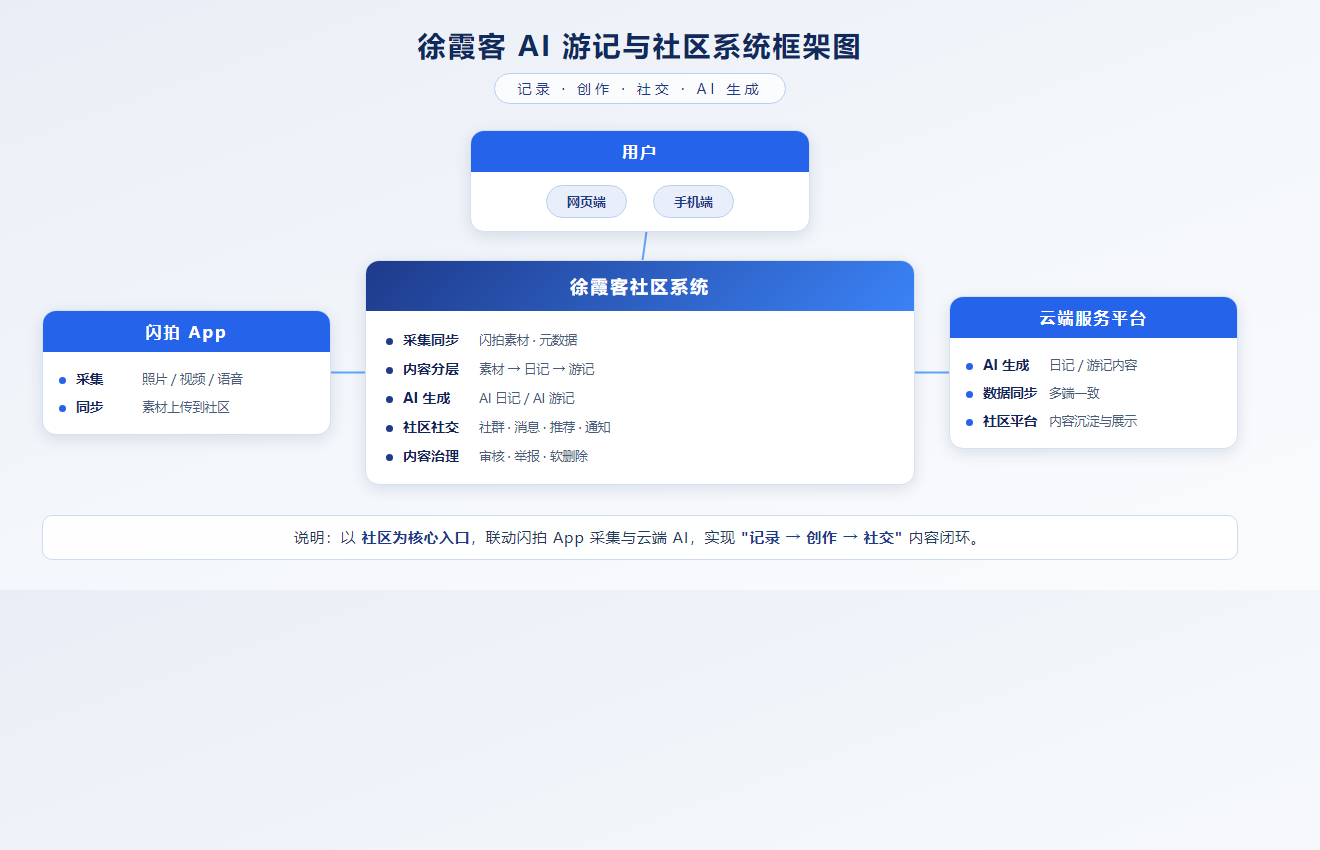
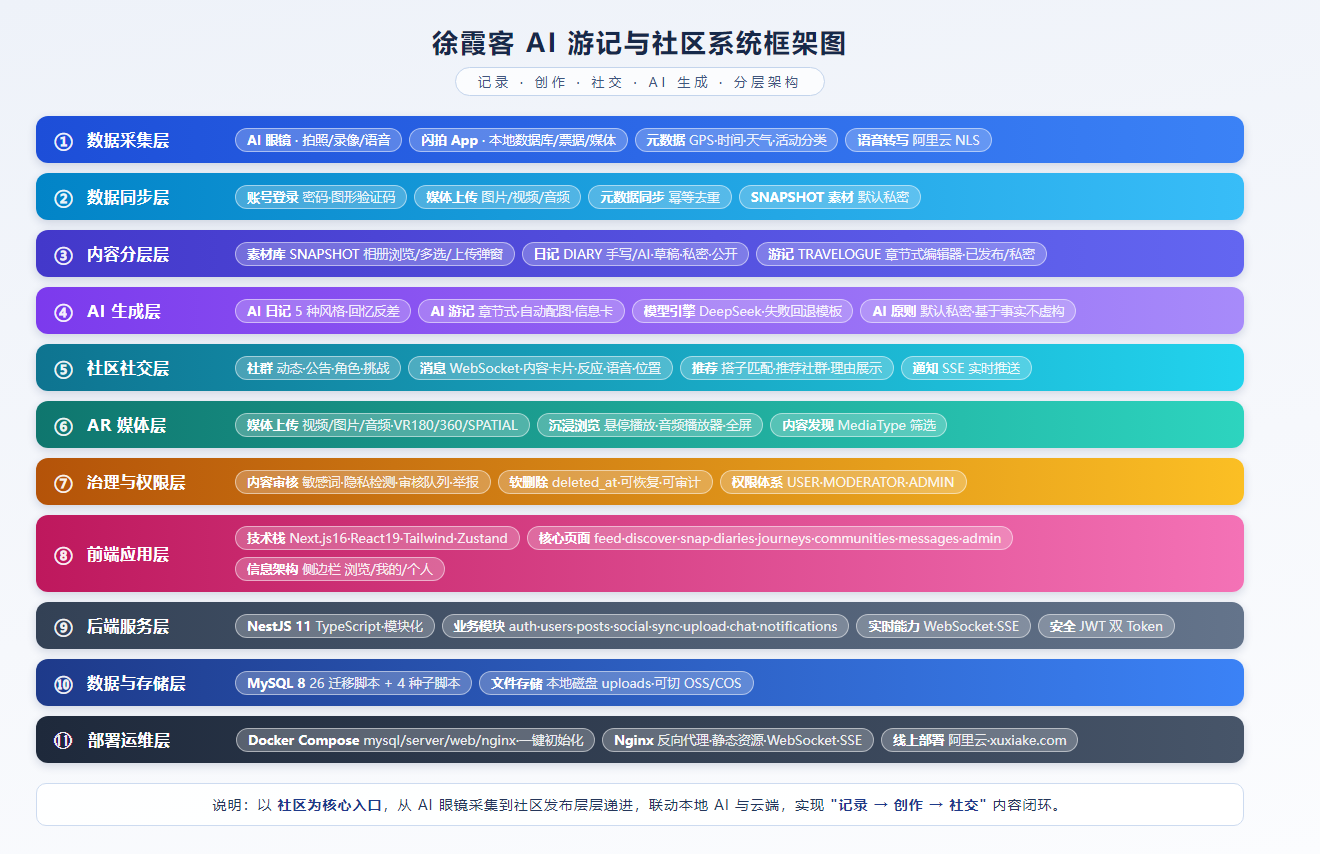
auto: update 徐霞客社区系统框架图.html

diff --git a/徐霞客社区系统框架图.html b/徐霞客社区系统框架图.html
@@ -6,12 +6,12 @@
 <style>
   * { margin: 0; padding: 0; box-sizing: border-box; }
   body {
-    width: 1280px;
     font-family: "Microsoft YaHei", "PingFang SC", sans-serif;
     background: linear-gradient(170deg, #eef2f9 0%, #f6f8fc 60%, #fbfcfe 100%);
-    padding: 24px 36px 28px;
+    padding: 24px 40px 28px;
+    min-width: 1360px;
   }
-  .header { text-align: center; margin-bottom: 20px; }
+  .header { text-align: center; margin-bottom: 18px; }
   .header h1 { font-size: 26px; color: #16294a; letter-spacing: 2px; }
   .header .tag {
     display: inline-block; margin-top: 8px;
@@ -20,26 +20,33 @@
     padding: 5px 22px; border-radius: 30px;
   }
 
-  .layers { display: flex; flex-direction: column; gap: 10px; }
-  .layer {
-    display: flex; align-items: center;
-    border-radius: 12px; padding: 11px 18px;
-    color: #fff; box-shadow: 0 3px 10px rgba(20,40,90,0.16);
+  #lines { position: absolute; top: 0; left: 0; width: 100%; height: 100%; pointer-events: none; z-index: 0; }
+
+  .tree { position: relative; z-index: 1; display: flex; flex-direction: column; align-items: center; }
+  .wrap { display: flex; flex-direction: column; align-items: center; }
+  .row { display: flex; justify-content: center; align-items: flex-start; gap: 16px; padding-top: 30px; }
+
+  .node {
+    white-space: nowrap;
+    padding: 8px 15px;
+    border-radius: 11px;
+    font-size: 13px;
+    border: 1.5px solid #c7d8ef;
+    background: #fff;
+    color: #1f3a5c;
   }
-  .layer .num { font-size: 19px; font-weight: 700; margin-right: 14px; opacity: 0.92; }
-  .layer .name { font-size: 15.5px; font-weight: 700; min-width: 148px; letter-spacing: 1px; }
-  .layer .items { display: flex; flex-wrap: wrap; gap: 7px; flex: 1; }
-  .layer .it {
-    background: rgba(255,255,255,0.24);
-    border: 1px solid rgba(255,255,255,0.5);
-    border-radius: 15px; padding: 3px 11px;
-    font-size: 12.5px; letter-spacing: 0.3px;
+  .lvl0 {
+    font-size: 19px; font-weight: 700; color: #fff; letter-spacing: 1px;
+    background: linear-gradient(135deg, #1e3a8a, #3b82f6);
+    border: none; padding: 15px 30px; border-radius: 26px;
+    box-shadow: 0 6px 18px rgba(30,58,138,0.35);
   }
-  .layer .it b { font-weight: 600; }
-  .layer .sub { opacity: 0.88; }
+  .lvl1 { font-size: 15px; font-weight: 700; color: #fff; background: #2563eb; border: none; }
+  .lvl2 { font-size: 13.5px; font-weight: 600; background: #e9f0fb; border-color: #b6cdf0; }
+  .lvl3 { font-size: 12.5px; background: #ffffff; border-color: #cfddf1; color: #3a557f; }
 
   .foot {
-    margin-top: 20px;
+    margin-top: 26px; position: relative; z-index: 1;
     background: rgba(255,255,255,0.85); border: 1px solid #cddbf0; border-radius: 10px;
     padding: 11px 18px; font-size: 14px; color: #25365a; text-align: center; letter-spacing: 1px;
   }
@@ -47,118 +54,130 @@
 </style>
 </head>
 <body>
+  <svg id="lines">
+    <defs>
+      <marker id="arrow" viewBox="0 0 10 10" refX="9" refY="5" markerWidth="6" markerHeight="6" orient="auto-start-reverse">
+        <path d="M 0 0 L 10 5 L 0 10 z" fill="#8fb3e3"/>
+      </marker>
+    </defs>
+  </svg>
+
   <div class="header">
     <h1>徐霞客 AI 游记与社区系统框架图</h1>
-    <div class="tag">记录 · 创作 · 社交 · AI 生成 · 分层架构</div>
+    <div class="tag">第一级：系统主体 · 第二级：功能 · 第三级：主要内容</div>
   </div>
 
-  <div class="layers">
-    <div class="layer" style="background:linear-gradient(90deg,#1d4ed8,#3b82f6);">
-      <div class="num">①</div><div class="name">数据采集层</div>
-      <div class="items">
-        <span class="it"><b>AI 眼镜</b> · 拍照/录像/语音</span>
-        <span class="it"><b>闪拍 App</b> · 本地数据库/票据/媒体</span>
-        <span class="it"><b>元数据</b> <span class="sub">GPS·时间·天气·活动分类</span></span>
-        <span class="it"><b>语音转写</b> <span class="sub">阿里云 NLS</span></span>
-      </div>
-    </div>
-
-    <div class="layer" style="background:linear-gradient(90deg,#0284c7,#38bdf8);">
-      <div class="num">②</div><div class="name">数据同步层</div>
-      <div class="items">
-        <span class="it"><b>账号登录</b> <span class="sub">密码·图形验证码</span></span>
-        <span class="it"><b>媒体上传</b> <span class="sub">图片/视频/音频</span></span>
-        <span class="it"><b>元数据同步</b> <span class="sub">幂等去重</span></span>
-        <span class="it"><b>SNAPSHOT 素材</b> <span class="sub">默认私密</span></span>
-      </div>
-    </div>
-
-    <div class="layer" style="background:linear-gradient(90deg,#4338ca,#6366f1);">
-      <div class="num">③</div><div class="name">内容分层层</div>
-      <div class="items">
-        <span class="it"><b>素材库</b> SNAPSHOT <span class="sub">相册浏览/多选/上传弹窗</span></span>
-        <span class="it"><b>日记</b> DIARY <span class="sub">手写/AI·草稿·私密·公开</span></span>
-        <span class="it"><b>游记</b> TRAVELOGUE <span class="sub">章节式编辑器·已发布/私密</span></span>
-      </div>
-    </div>
-
-    <div class="layer" style="background:linear-gradient(90deg,#7c3aed,#a78bfa);">
-      <div class="num">④</div><div class="name">AI 生成层</div>
-      <div class="items">
-        <span class="it"><b>AI 日记</b> <span class="sub">5 种风格·回忆反差</span></span>
-        <span class="it"><b>AI 游记</b> <span class="sub">章节式·自动配图·信息卡</span></span>
-        <span class="it"><b>模型引擎</b> <span class="sub">DeepSeek·失败回退模板</span></span>
-        <span class="it"><b>AI 原则</b> <span class="sub">默认私密·基于事实不虚构</span></span>
-      </div>
-    </div>
-
-    <div class="layer" style="background:linear-gradient(90deg,#0e7490,#22d3ee);">
-      <div class="num">⑤</div><div class="name">社区社交层</div>
-      <div class="items">
-        <span class="it"><b>社群</b> <span class="sub">动态·公告·角色·挑战</span></span>
-        <span class="it"><b>消息</b> <span class="sub">WebSocket·内容卡片·反应·语音·位置</span></span>
-        <span class="it"><b>推荐</b> <span class="sub">搭子匹配·推荐社群·理由展示</span></span>
-        <span class="it"><b>通知</b> <span class="sub">SSE 实时推送</span></span>
-      </div>
-    </div>
-
-    <div class="layer" style="background:linear-gradient(90deg,#0f766e,#2dd4bf);">
-      <div class="num">⑥</div><div class="name">AR 媒体层</div>
-      <div class="items">
-        <span class="it"><b>媒体上传</b> <span class="sub">视频/图片/音频·VR180/360/SPATIAL</span></span>
-        <span class="it"><b>沉浸浏览</b> <span class="sub">悬停播放·音频播放器·全屏</span></span>
-        <span class="it"><b>内容发现</b> <span class="sub">MediaType 筛选</span></span>
-      </div>
-    </div>
-
-    <div class="layer" style="background:linear-gradient(90deg,#b45309,#fbbf24);">
-      <div class="num">⑦</div><div class="name">治理与权限层</div>
-      <div class="items">
-        <span class="it"><b>内容审核</b> <span class="sub">敏感词·隐私检测·审核队列·举报</span></span>
-        <span class="it"><b>软删除</b> <span class="sub">deleted_at·可恢复·可审计</span></span>
-        <span class="it"><b>权限体系</b> <span class="sub">USER·MODERATOR·ADMIN</span></span>
-      </div>
-    </div>
-
-    <div class="layer" style="background:linear-gradient(90deg,#be185d,#f472b6);">
-      <div class="num">⑧</div><div class="name">前端应用层</div>
-      <div class="items">
-        <span class="it"><b>技术栈</b> <span class="sub">Next.js16·React19·Tailwind·Zustand</span></span>
-        <span class="it"><b>核心页面</b> <span class="sub">feed·discover·snap·diaries·journeys·communities·messages·admin</span></span>
-        <span class="it"><b>信息架构</b> <span class="sub">侧边栏 浏览/我的/个人</span></span>
-      </div>
-    </div>
-
-    <div class="layer" style="background:linear-gradient(90deg,#334155,#64748b);">
-      <div class="num">⑨</div><div class="name">后端服务层</div>
-      <div class="items">
-        <span class="it"><b>NestJS 11</b> <span class="sub">TypeScript·模块化</span></span>
-        <span class="it"><b>业务模块</b> <span class="sub">auth·users·posts·social·sync·upload·chat·notifications</span></span>
-        <span class="it"><b>实时能力</b> <span class="sub">WebSocket·SSE</span></span>
-        <span class="it"><b>安全</b> <span class="sub">JWT 双 Token</span></span>
-      </div>
-    </div>
-
-    <div class="layer" style="background:linear-gradient(90deg,#1e3a8a,#3b82f6);">
-      <div class="num">⑩</div><div class="name">数据与存储层</div>
-      <div class="items">
-        <span class="it"><b>MySQL 8</b> <span class="sub">26 迁移脚本 + 4 种子脚本</span></span>
-        <span class="it"><b>文件存储</b> <span class="sub">本地磁盘 uploads·可切 OSS/COS</span></span>
-      </div>
-    </div>
-
-    <div class="layer" style="background:linear-gradient(90deg,#1e293b,#475569);">
-      <div class="num">⑪</div><div class="name">部署运维层</div>
-      <div class="items">
-        <span class="it"><b>Docker Compose</b> <span class="sub">mysql/server/web/nginx·一键初始化</span></span>
-        <span class="it"><b>Nginx</b> <span class="sub">反向代理·静态资源·WebSocket·SSE</span></span>
-        <span class="it"><b>线上部署</b> <span class="sub">阿里云·xuxiake.com</span></span>
-      </div>
-    </div>
-  </div>
+  <div class="tree" id="tree"></div>
 
   <div class="foot">
-    说明：以 <b>社区为核心入口</b>，从 AI 眼镜采集到社区发布层层递进，联动本地 AI 与云端，实现 <b>"记录 → 创作 → 社交"</b> 内容闭环。
+    说明：以 <b>社区为核心入口</b>，从 AI 眼镜采集到社区发布，联动本地 AI 与云端，实现 <b>"记录 → 创作 → 社交"</b> 内容闭环。
   </div>
+
+<script>
+const TREE = {
+  name: "徐霞客 AI 游记与社区系统",
+  children: [
+    {
+      name: "用户",
+      children: [
+        { name: "交互方式", children: [
+          { name: "网页端" },
+          { name: "手机端" },
+        ] },
+      ],
+    },
+    {
+      name: "徐霞客社区系统",
+      children: [
+        { name: "采集同步", children: [
+          { name: "闪拍素材" }, { name: "媒体上传" }, { name: "元数据同步" },
+        ] },
+        { name: "内容分层", children: [
+          { name: "素材库" }, { name: "日记" }, { name: "游记" },
+        ] },
+        { name: "AI 生成", children: [
+          { name: "AI日记" }, { name: "AI游记" }, { name: "模型引擎" },
+        ] },
+        { name: "社区社交", children: [
+          { name: "社群" }, { name: "消息" }, { name: "推荐" }, { name: "通知" },
+        ] },
+        { name: "AR 媒体", children: [
+          { name: "媒体上传" }, { name: "沉浸浏览" }, { name: "内容发现" },
+        ] },
+        { name: "治理权限", children: [
+          { name: "内容审核" }, { name: "软删除" }, { name: "角色权限" },
+        ] },
+      ],
+    },
+    {
+      name: "闪拍 App",
+      children: [
+        { name: "数据采集", children: [
+          { name: "照片/视频/语音" }, { name: "同步到社区" },
+        ] },
+      ],
+    },
+    {
+      name: "云端服务平台",
+      children: [
+        { name: "内容生成", children: [ { name: "AI 生成日记/游记" } ] },
+        { name: "数据同步", children: [ { name: "多端数据一致" } ] },
+        { name: "社区平台", children: [ { name: "内容沉淀与展示" } ] },
+      ],
+    },
+  ],
+};
+
+function nodeEl(name, level) {
+  const d = document.createElement('div');
+  d.className = 'node lvl' + Math.min(level, 3);
+  d.textContent = name;
+  return d;
+}
+function render(node, parent, level) {
+  const wrap = document.createElement('div');
+  wrap.className = 'wrap';
+  wrap.appendChild(nodeEl(node.name, level));
+  if (node.children && node.children.length) {
+    const row = document.createElement('div');
+    row.className = 'row';
+    node.children.forEach((c) => render(c, row, level + 1));
+    wrap.appendChild(row);
+  }
+  parent.appendChild(wrap);
+}
+render(TREE, document.getElementById('tree'), 0);
+
+function drawLines() {
+  const svg = document.getElementById('lines');
+  const ns = 'http://www.w3.org/2000/svg';
+  svg.innerHTML = '';
+  const bodyRect = document.body.getBoundingClientRect();
+  svg.setAttribute('width', document.body.scrollWidth);
+  svg.setAttribute('height', document.body.scrollHeight);
+
+  document.querySelectorAll('.wrap').forEach((w) => {
+    const row = w.querySelector(':scope > .row');
+    if (!row) return;
+    const p = w.querySelector(':scope > .node');
+    const pRect = p.getBoundingClientRect();
+    const px = pRect.left + pRect.width / 2 - bodyRect.left;
+    const py = pRect.bottom - bodyRect.top;
+    row.querySelectorAll(':scope > .wrap > .node').forEach((cn) => {
+      const cRect = cn.getBoundingClientRect();
+      const cx = cRect.left + cRect.width / 2 - bodyRect.left;
+      const cy = cRect.top - bodyRect.top;
+      const midY = (py + cy) / 2;
+      const path = document.createElementNS(ns, 'path');
+      path.setAttribute('d', 'M ' + px + ' ' + py + ' L ' + px + ' ' + midY + ' L ' + cx + ' ' + midY + ' L ' + cx + ' ' + cy);
+      path.setAttribute('stroke', '#8fb3e3');
+      path.setAttribute('stroke-width', '1.6');
+      path.setAttribute('fill', 'none');
+      svg.appendChild(path);
+    });
+  });
+}
+window.addEventListener('load', function () { setTimeout(drawLines, 160); });
+</script>
 </body>
 </html>
